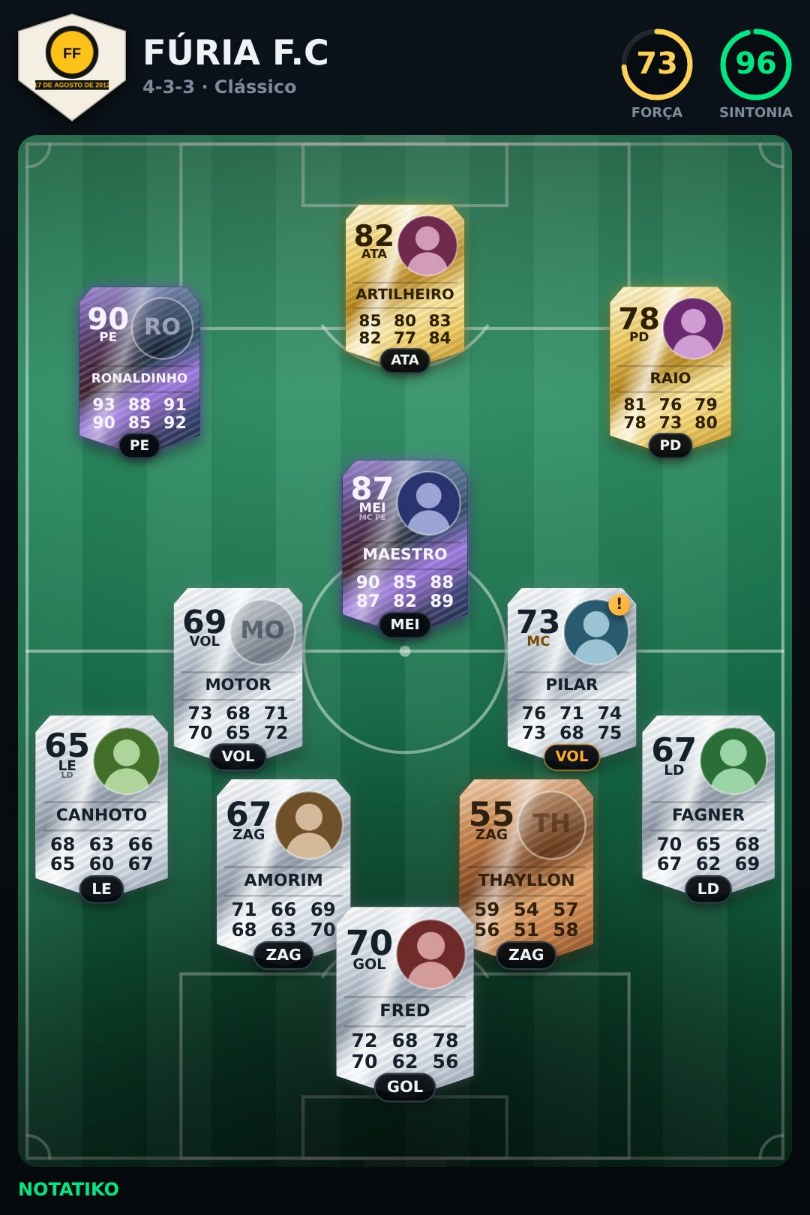
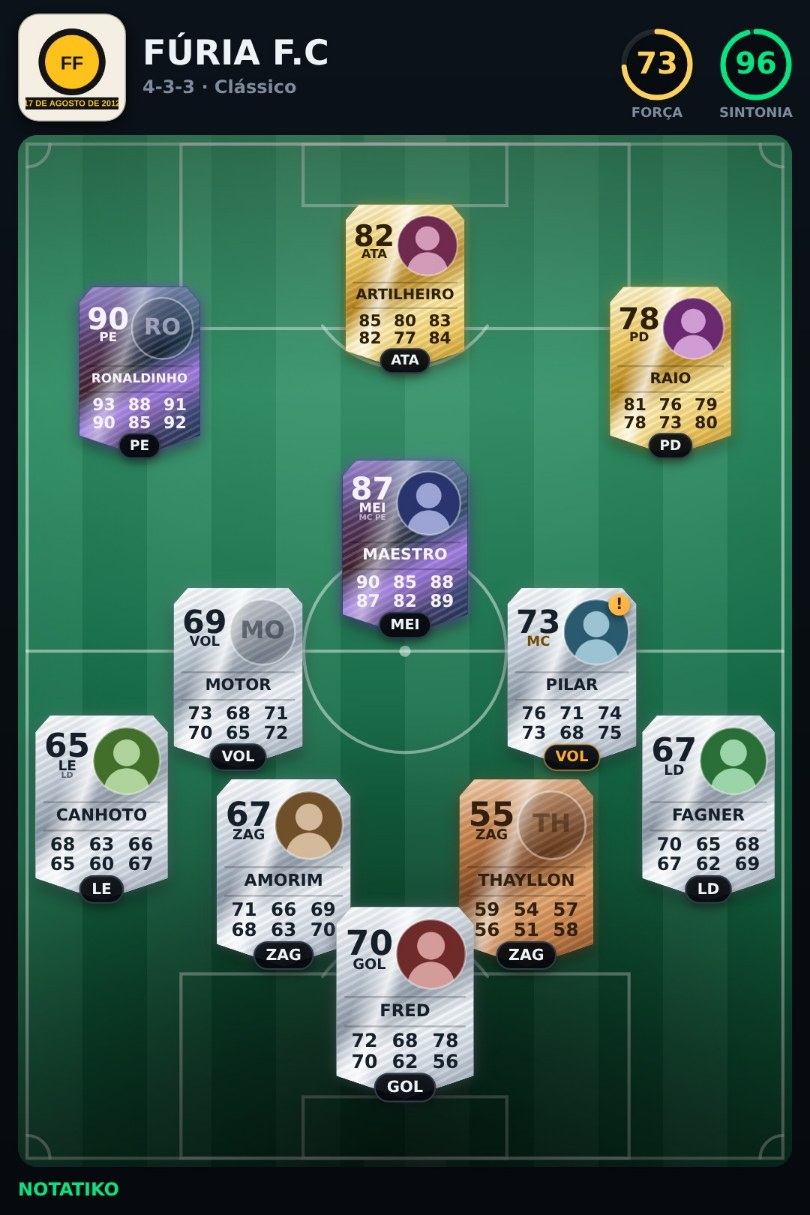
A marca do clube numa placa de pontas arredondadas
A silhueta de brasão como moldura resolvia o corte, mas cobrava caro: a
marca tinha que encolher até caber no afunilamento do bico, e sobrava
placa vazia em volta dela.

O quadrado de pontas arredondadas não tira nada e não encolhe nada. A
folga é só o suficiente para as pontas da marca passarem por dentro do
arredondamento, e com isso a marca cresce de 98 para 124 — um quarto
maior que na moldura de brasão, e maior do que já foi em qualquer
tentativa anterior.

A placa continua tomando a cor de fundo da marca quando ela tem uma só,
que é o que faz a borda do arquivo desaparecer e o conjunto ler como um
emblema só. Sem marca, a silhueta de brasão segue segurando o lugar
dentro da placa.

Claude-Session: https://claude.ai/code/session_01BDiYZxN9ViDVE1JWyEVF93

Changed region(s): [[0.0, 0.0, 0.1543, 0.1218]]

diff --git a/js/compartilhar.js b/js/compartilhar.js
@@ -680,25 +680,27 @@ export async function imagemDaEscalacao({ time, tatica, forca, sintonia, slots }
   ctx.fillStyle = fundo;
   ctx.fillRect(0, 0, L, A);
 
-  /* ---- topo: o brasão do clube ----
+  /* ---- topo: a marca do clube ----
 
-     O escudo é uma placa em forma de brasão — a mesma silhueta do emblema
-     do placar do app — com a marca do clube inteira dentro dela.
-
-     Recortar a marca NO formato do brasão foi a primeira tentativa e
-     estava errado: escudo redondo perde os lados, e faixa com o ano de
-     fundação embaixo é a primeira coisa a sumir. Aqui o brasão é moldura,
-     não tesoura: a marca é reduzida até caber no maior quadrado que cabe
-     dentro da silhueta, e nada é cortado.                               */
+     Uma placa quadrada de pontas arredondadas, com a marca inteira
+     dentro. O caminho até aqui passou por duas tentativas piores:
+     recortar a marca no formato de brasão comia os lados do escudo
+     redondo e a faixa com o ano de fundação, e usar a silhueta de brasão
+     como moldura obrigava a marca a encolher para caber no afunilamento
+     do bico. O quadrado arredondado não tira nada e não encolhe nada — a
+     folga é só o suficiente para as pontas da marca passarem por dentro
+     do arredondamento.                                                  */
   const t = 144;
   const topoEscudo = 18;
+  const raio = 28;
+  const folga = 10;
   const marca = escudo ? fundoDaMarca(escudo) : null;
 
   ctx.save();
   ctx.shadowColor = 'rgba(0,0,0,.55)';
   ctx.shadowBlur = 20;
   ctx.shadowOffsetY = 6;
-  caminhoEscudo(ctx, MARGEM, topoEscudo, t);
+  caminhoArredondado(ctx, MARGEM, topoEscudo, t, t, raio);
   if (marca) {
     ctx.fillStyle = marca.css;
   } else {
@@ -711,17 +713,12 @@ export async function imagemDaEscalacao({ time, tatica, forca, sintonia, slots }
   ctx.restore();
 
   ctx.save();
-  caminhoEscudo(ctx, MARGEM, topoEscudo, t);
+  caminhoArredondado(ctx, MARGEM, topoEscudo, t, t, raio);
   ctx.clip();
   if (escudo) {
-    /* O maior quadrado que cabe no brasão: 0,68 do lado, com o topo em
-       6%. Crescer além disso põe a base da marca na parte em que a
-       silhueta afunila para o bico — e é ali que mora a faixa com o ano
-       de fundação, a primeira coisa a ser comida.                      */
-    const dentro = t * .68;
-    conter(ctx, escudo, MARGEM + (t - dentro) / 2, topoEscudo + t * .06, dentro, dentro);
+    conter(ctx, escudo, MARGEM + folga, topoEscudo + folga, t - folga * 2, t - folga * 2);
   } else {
-    // sem marca, a silhueta vazia segura o lugar
+    // sem marca, a silhueta de brasão segura o lugar
     ctx.strokeStyle = 'rgba(255,255,255,.28)';
     ctx.lineWidth = 4;
     caminhoEscudo(ctx, MARGEM + t * .28, topoEscudo + t * .2, t * .44);
@@ -729,9 +726,9 @@ export async function imagemDaEscalacao({ time, tatica, forca, sintonia, slots }
   }
   ctx.restore();
 
-  // o filete que fecha o brasão: escuro sobre placa clara, claro sobre escura
+  // o filete que fecha a placa: escuro sobre placa clara, claro sobre escura
   ctx.save();
-  caminhoEscudo(ctx, MARGEM, topoEscudo, t);
+  caminhoArredondado(ctx, MARGEM, topoEscudo, t, t, raio);
   ctx.strokeStyle = marca?.claro ? 'rgba(0,0,0,.3)' : 'rgba(255,255,255,.18)';
   ctx.lineWidth = 3;
   ctx.stroke();

diff --git a/ferramentas/e2e.js b/ferramentas/e2e.js
@@ -610,7 +610,7 @@ const TESTES = [
     };
   }],
 
-  ['o brasão leva a marca inteira, sem cortar as pontas', async () => {
+  ['a marca do clube vai inteira, na placa de pontas arredondadas', async () => {
     const mod = await import('../js/compartilhar.js');
     const { slotsDaTatica } = await import('../js/taticas.js');
 
@@ -630,19 +630,18 @@ const TESTES = [
     });
     const cor = await amostrar(arquivo);
     const ehMarca = ({ r, g, b }) => r > 180 && g < 90 && b > 140;
-    const ehFundo = ({ r, g, b }) => r < 40 && g < 45 && b < 55;
+    const ehFundo = ({ r, g, b }) => r < 45 && g < 45 && b < 60;
     const ehGrama = ({ r, g, b }) => g > r && g > b;
 
-    /* O brasão é uma placa de 144 em (24, 18), com a marca encaixada
-       dentro dela — de (47, 27) a (145, 125).                          */
+    /* A placa mede 144 em (24, 18), com a marca encaixada dentro dela —
+       de (34, 28) a (158, 152).                                        */
     const medido = {
-      marcaNoCantoDeCima: cor(52, 32),
-      marcaNoCantoDeBaixo: cor(140, 118),
+      marcaNoCantoDeCima: cor(40, 34),
+      marcaNoCantoDeBaixo: cor(150, 144),
       // a placa toma a cor do fundo da marca: a borda do arquivo some
-      placa: cor(30, 100),
-      // fora da silhueta do brasão é fundo da imagem — é isto que separa
-      // um brasão de um quadrado
-      foraDoBrasao: cor(28, 26),
+      placa: cor(28, 90),
+      // a ponta da placa é arredondada: ali fora já é fundo da imagem
+      pontaArredondada: cor(26, 20),
       // e o gramado não tem marca nenhuma
       cantoDoCampo: cor(70, 1500),
       meioDoCampo: cor(540, 860),
@@ -650,7 +649,7 @@ const TESTES = [
     return {
       ...medido,
       ok: ehMarca(medido.marcaNoCantoDeCima) && ehMarca(medido.marcaNoCantoDeBaixo)
-          && ehMarca(medido.placa) && ehFundo(medido.foraDoBrasao)
+          && ehMarca(medido.placa) && ehFundo(medido.pontaArredondada)
           && ehGrama(medido.cantoDoCampo) && ehGrama(medido.meioDoCampo),
     };
   }],

diff --git a/README.md b/README.md
@@ -88,10 +88,10 @@ se compartilha do mesmo jeito:
 - **O recorte da marca no formato do brasão.** O placar do app corta em forma
   de escudo porque ali ele é um emblema de 34px; numa imagem que representa o
   clube, escudo redondo perdia os lados e faixa com o ano de fundação sumia.
-  Agora o brasão é moldura, não tesoura: a silhueta é a mesma do placar, e a
-  marca vai inteira dentro dela, reduzida até caber no maior quadrado que a
-  silhueta comporta. A placa ainda toma a cor de fundo da marca quando ela
-  tem uma só — o quadrado do arquivo desaparece e sobra o brasão.
+  A marca agora vai inteira numa placa quadrada de pontas arredondadas, que
+  não corta nem obriga a encolher. A placa toma a cor de fundo da marca
+  quando ela tem uma só — a borda do arquivo desaparece e o conjunto lê como
+  um emblema só.
 - **A contagem de "x de 11 em campo".** Quem olha a imagem conta os onze
   sozinho. O rodapé ficou só com a assinatura, e o lugar dela virou campo.
 
